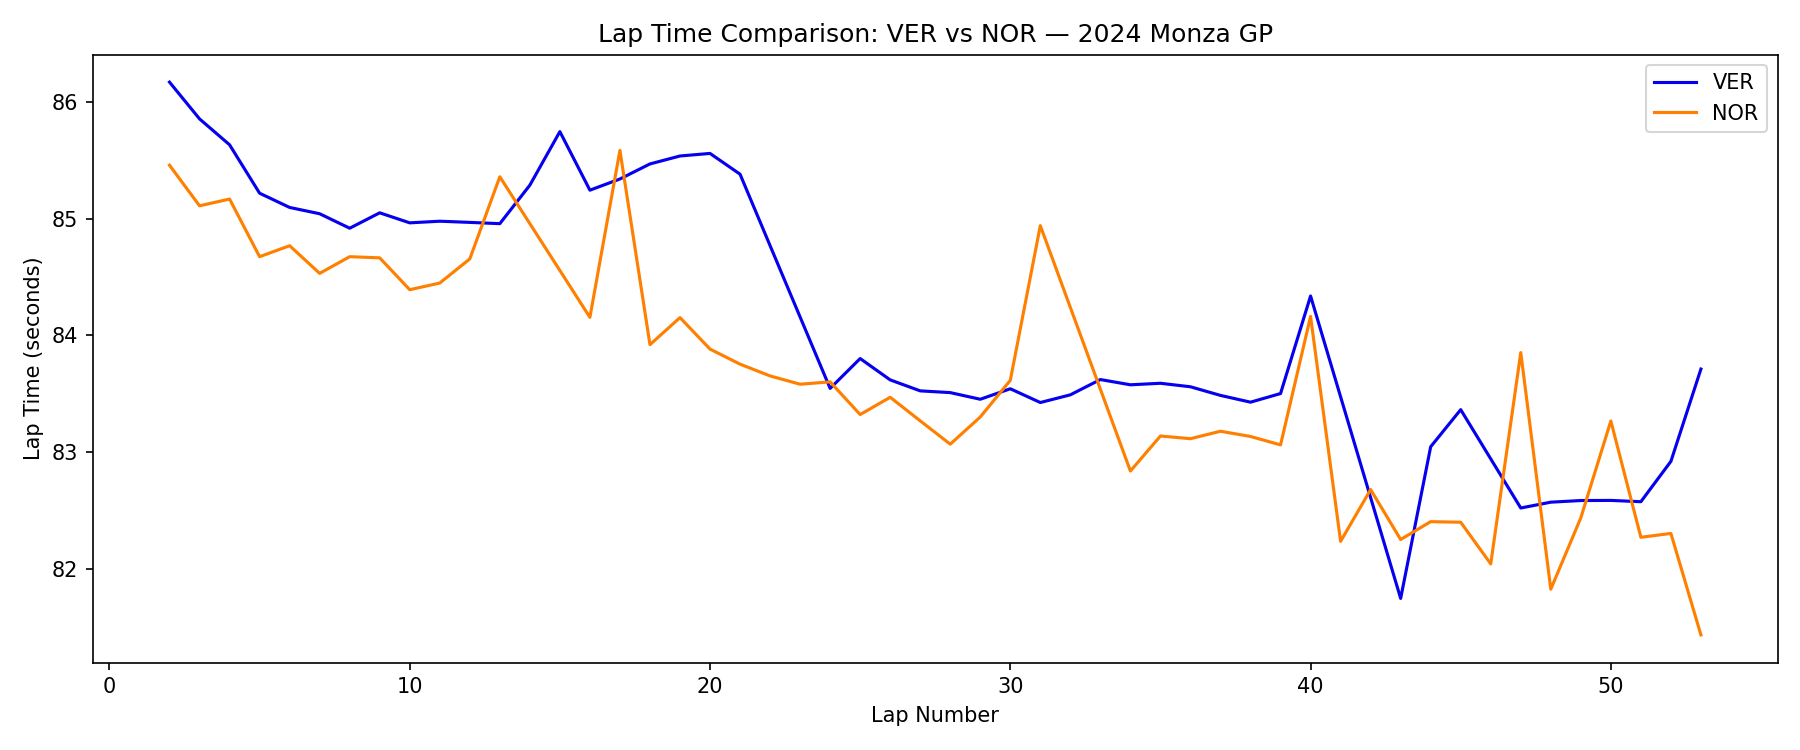
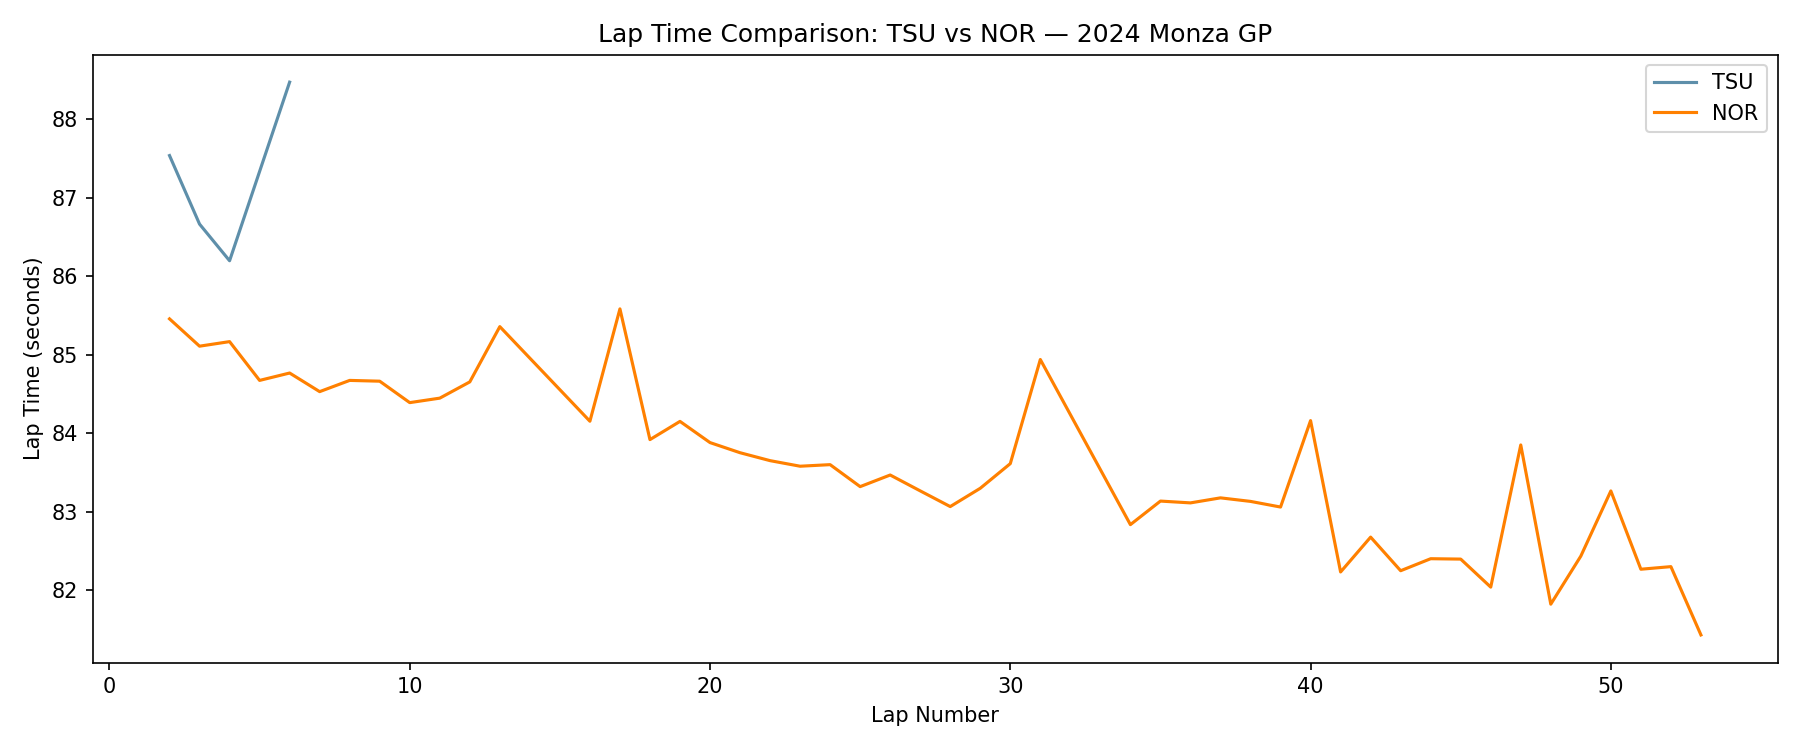
team_colours added to change colour depdning on driver
Simple method to get colour from a dictionary.

diff --git a/team_colours.py b/team_colours.py
@@ -1,0 +1,63 @@
+#Dictionary of driver codes and their correspoinding colour for each relevant year
+driver_colours_2024={ 
+    'VER': '#3671C6',  # Red Bull
+    'PER': '#3671C6',
+    'HAM': '#27F4D2',  # Mercedes
+    'RUS': '#27F4D2',
+    'LEC': '#E8002D',  # Ferrari
+    'SAI': '#E8002D',
+    'NOR': '#FF8000',  # McLaren
+    'PIA': '#FF8000',
+    'ALO': '#358C75',  # Aston Martin
+    'STR': '#358C75',
+    'GAS': '#0093CC',  # Alpine
+    'OCO': '#0093CC',
+    'LAW': '#00E0D0',  # AlphaTauri
+    'TSU': '#5E8FAA',
+    'BOT': '#C92D4B',  # Kick Sauber
+    'ZHO': '#C92D4B',
+    'MAG': '#B6BABD',  # Haas
+    'HUL': '#B6BABD',
+    'ALB': '#64C4FF',  # Williams
+    'SAR': '#64C4FF'
+}
+
+driver_colours_2025={
+    'VER': '#3671C6',  # Red Bull
+    'TSU': '#3671C6',
+    'ANT': '#27F4D2',  # Mercedes
+    'RUS': '#27F4D2',
+    'LEC': '#E8002D',  # Ferrari
+    'HAMI': '#E8002D',
+    'NOR': '#FF8000',  # McLaren
+    'PIA': '#FF8000',
+    'ALO': '#358C75',  # Aston Martin
+    'STR': '#358C75',
+    'GAS': '#0093CC',  # Alpine
+    'COL': '#0093CC',
+    'LAW': '#00E0D0',  # Racing Bulls
+    'HAJ': '#5E8FAA',
+    'BOR': '#C92D4B',  # Kick Sauber
+    'HUL': '#C92D4B',
+    'BEA': '#B6BABD',  # Haas
+    'OCO': '#B6BABD',
+    'ALB': '#64C4FF',  # Williams
+    'SAI': '#64C4FF'
+}
+
+def get_colour(driver_code,season):
+    """Method to return the corect colour for the driver.
+
+    Method find the correct year (2024 or 2025) and then uses a ductionary to look up the 
+    corresponding HEX value for that driver.
+
+    Args:
+        driver_code (string): 3 digit driver name code.
+        season (integer): Season the data is collected from.
+
+    Returns:
+        string: HEX colour code for the driver.
+    """
+    if season==2024:
+        return driver_colours_2024.get(driver_code)
+    return driver_colours_2025.get(driver_code)

diff --git a/lap_comparison.py b/lap_comparison.py
@@ -1,6 +1,7 @@
 import fastf1
 import fastf1.plotting
 import matplotlib.pyplot as plt
+from team_colours import get_colour
 
 # Enable the cache (saves re-downloading data)
 fastf1.Cache.enable_cache('f1_cache')
@@ -10,8 +11,9 @@ session = fastf1.get_session(2024, 'Monza', 'R')
 session.load()
 
 # Pick your two drivers using their 3-letter codes
-driver1 = 'VER'
+driver1 = 'TSU'
 driver2 = 'NOR'
+season = 2024;
 
 # Get their laps, dropping any outliers (safety car laps etc.)
 laps_d1 = session.laps.pick_driver(driver1).pick_quicklaps().reset_index()
@@ -24,8 +26,8 @@ laps_d2['LapTimeSeconds'] = laps_d2['LapTime'].dt.total_seconds()
 # Plot
 fig, ax = plt.subplots(figsize=(12, 5))
 
-ax.plot(laps_d1['LapNumber'], laps_d1['LapTimeSeconds'], label=driver1, color='#0600ef')
-ax.plot(laps_d2['LapNumber'], laps_d2['LapTimeSeconds'], label=driver2, color='#ff8000')
+ax.plot(laps_d1['LapNumber'], laps_d1['LapTimeSeconds'], label=driver1, color=get_colour(driver1,season))
+ax.plot(laps_d2['LapNumber'], laps_d2['LapTimeSeconds'], label=driver2, color=get_colour(driver2,season))
 
 ax.set_xlabel('Lap Number')
 ax.set_ylabel('Lap Time (seconds)')